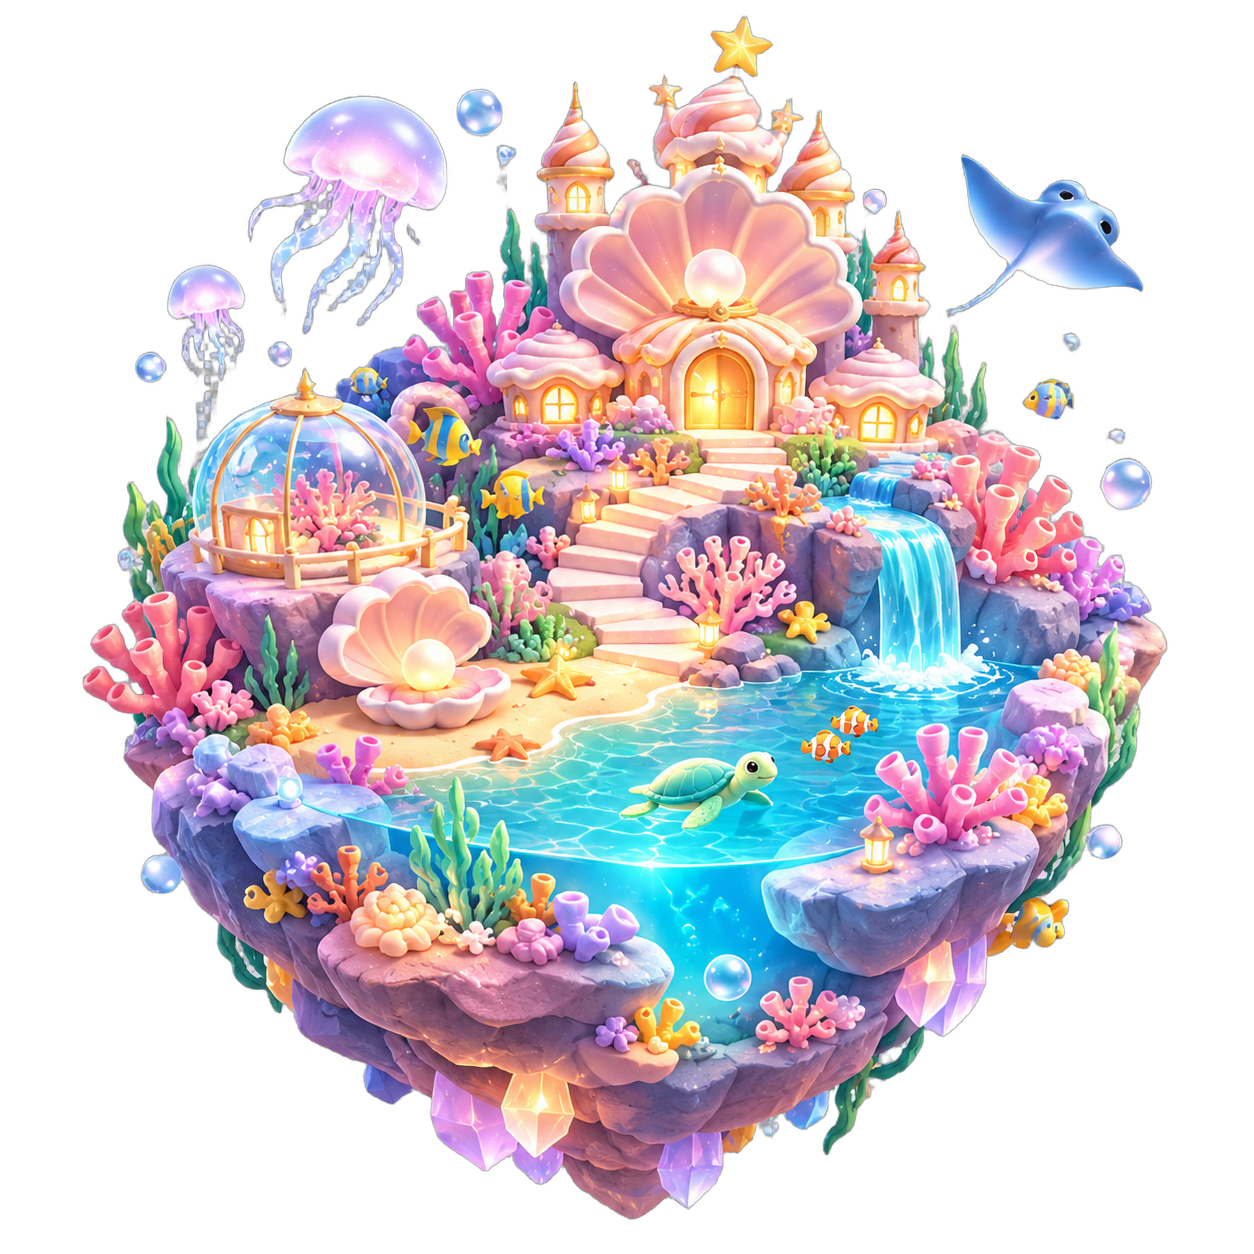
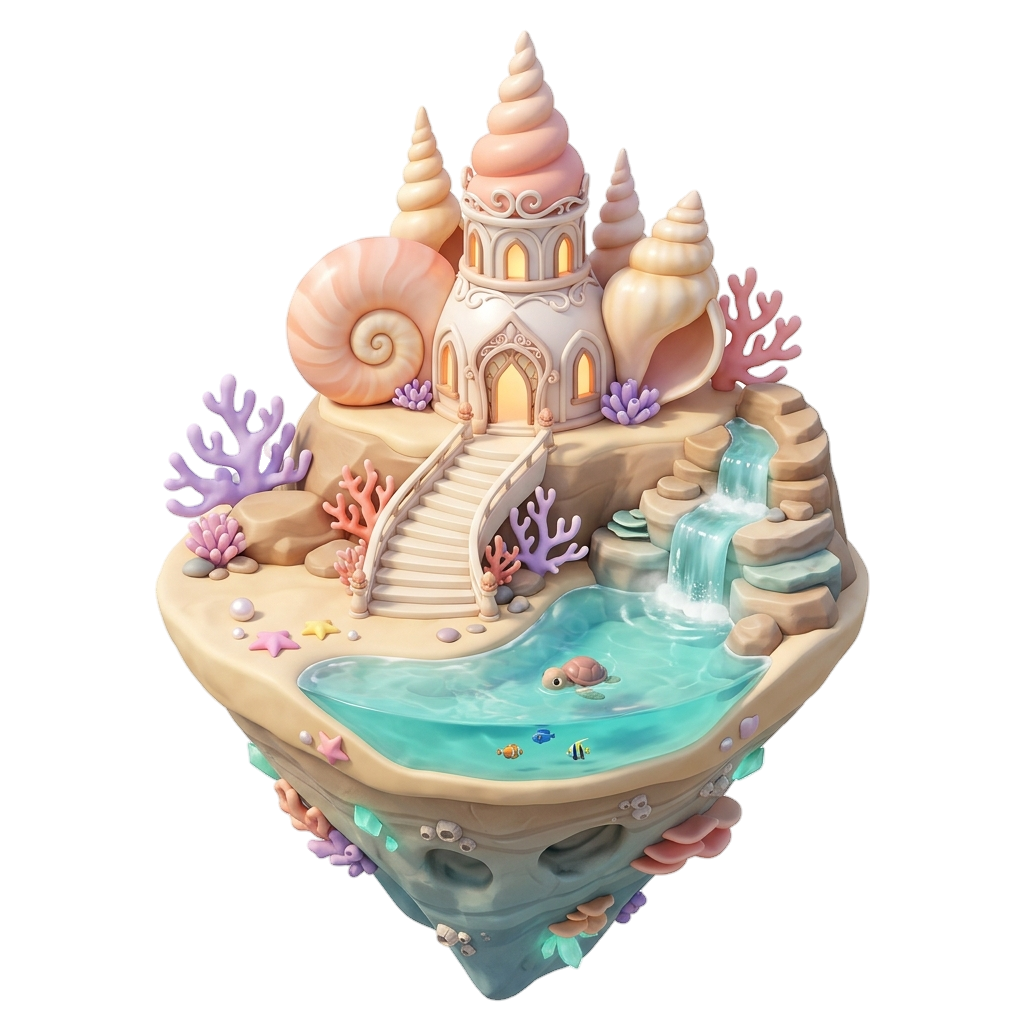
feat(assets): redesign coral wonderland diorama with cohesive 3D hierarchy

diff --git a/.claude/superpowers/specs/2026-11-23-coral-wonderland-redesign-spec.md b/.claude/superpowers/specs/2026-11-23-coral-wonderland-redesign-spec.md
@@ -1,0 +1,80 @@
+# Design Specification: Redesign 3D Fantasy Island — Xứ Sở San Hô (Coral Wonderland)
+
+- **Date:** 2026-11-23
+- **Status:** Proposed / Ready for Review
+- **Role:** Senior 3D Environment & Asset Artist
+- **Target Asset:** `src/public/assets/planets/planet_coral_wonderland.png` (and WebP)
+- **Reference Standards:** `planet_melody_island.png`, `planet_arabian_nights.png`
+
+---
+
+## 1. Phân Tích Hiện Trạng & Vấn Đề Lệch Tone
+
+Khi đặt Xứ Sở San Hô (Coral Wonderland) cạnh 2 hòn đảo mới được nâng cấp (Hòn Đảo Giai Điệu và Ốc Đảo Ngàn Lẻ Một Đêm), sự chênh lệch chất lượng và phong cách thể hiện rất rõ ở 4 yếu tố:
+
+| Tiêu chí | Hòn Đảo Giai Điệu & Arabian Nights (Chuẩn) | Xứ Sở San Hô (Hiện tại) | Hướng Khắc Phục (Redesign) |
+|---|---|---|---|
+| **Visual Hierarchy** | 3 lớp rõ ràng: Công trình trung tâm -> Địa hình/sân vườn -> Điểm nhấn tiền cảnh | Mất tiêu điểm: Lâu đài bị lấn át bởi nhà kính vòm kính bên trái và rừng san hô dày đặc | Loại bỏ nhà kính vòm kính; tôn vinh Lâu đài Vỏ Sò làm công trình cao nhất và duy nhất ở hậu cảnh |
+| **Mật độ chi tiết (Clutter)** | Có khoảng nghỉ thị giác (negative space), thảm cỏ/cát thoáng đãng | Quá tải chi tiết: 114 connected components rời rạc, san hô xếp lớp nghẹt thở | Cắt giảm 35–40% chi tiết thừa; giữ 4–6 cụm san hô lớn có chủ đích, chừa khoảng trống nhìn rõ nền đá |
+| **Sinh vật & Vật thể bay** | Bầu trời trong trẻo, không có vật thể thừa che khuất đường chân trời | Cá đuối bay, sứa lơ lửng, vệt bong bóng nước bay tràn lan xung quanh đảo | Loại bỏ 100% cá đuối bay, sứa bay và bóng nước trên không; chuyển sinh vật (rùa biển, cá) xuống mặt hồ nước |
+| **Ánh sáng & Vật liệu** | Cinematic daylight mềm mại, đổ bóng êm, ambient occlusion tự nhiên | Màu sắc quá rực, nhiều vệt lấp lánh (sparkle/glitter) gây cảm giác đồ họa 2D minh họa | Áp dụng Stylized 3D PBR: men gốm/vỏ sò xà cừ mịn màng, nước turquoise trong suốt phản chiếu nhẹ |
+
+---
+
+## 2. Thiết Kế Bố Cục 3 Tầng (3-Tier Composition)
+
+```
++-----------------------------------------------------------+
+|                      [BẦU TRỜI TRONG SUỐT]                 |
+|                                                           |
+|             BACKGROUND: LÂU ĐÀI VỎ SÒ HOÀNG GIA           |
+|            - Mái vòm vỏ sò hồng đào & vàng kem            |
+|            - Tháp ốc xoắn thanh thoát                     |
+|            - Cửa sổ vòm phát sáng vàng hổ phách           |
+|                                                           |
+|       MIDGROUND: CẦU THANG ĐÁ & THÁC NƯỚC TURQUOISE       |
+|    - Cầu thang đá kem uốn lượn dẫn từ hồ lên lâu đài       |
+|    - Thác nước ngọc lam chảy tràn tự nhiên bên mạn phải   |
+|    - 4 đến 6 cụm san hô lớn (lavender, hồng san hô)       |
+|    - Khoảng đất trống lộ rõ thảm địa hình đá cát          |
+|                                                           |
+|           FOREGROUND: HỒ NƯỚC NGỌC LAM & SINH VẬT         |
+|         - Hồ nước turquoise trong veo (30-35% diện tích)  |
+|         - 1 Chú rùa biển nhỏ bơi lội thanh bình           |
+|         - Vài chú cá nhiệt đới bơi dưới mặt nước          |
+|         - Vài cụm sao biển và ngọc trai viền mép hồ       |
+|                                                           |
+|          ĐÁY ĐẢO NỔI: KHỐI ĐÁ TỰ NHIÊN HÌNH NÓN NGƯỢC     |
+|          - Vách đá san hô gồ ghề, rễ cây và tinh thể ngọc  |
++-----------------------------------------------------------+
+```
+
+---
+
+## 3. Hệ Màu Chuẩn (Color Palette & Lighting)
+
+- **Turquoise Blue (`#06b6d4`, `#22d3ee`):** Dành cho mặt hồ nước, dòng thác và làn sóng viền.
+- **Coral Pink (`#f472b6`, `#fb7185`):** Dành cho các mái vòm vỏ sò và cụm san hô chính.
+- **Warm Cream & Sandy Peach (`#fef3c7`, `#fde68a`):** Dành cho tường lâu đài, bậc thang và nền đá.
+- **Soft Lavender (`#c084fc`):** Điểm nhấn fantasy cho một vài nhánh san hô sừng hươu quý hiếm.
+- **Amber Glow (`#f59e0b`):** Ánh sáng ấm cúng phát ra từ các ô cửa sổ lâu đài.
+
+---
+
+## 4. Master AI Generation Prompt (Production-Grade)
+
+Dành cho Midjourney v6 / DALL-E 3 (ChatGPT Plus) / Flux.1:
+
+```text
+A premium stylized 3D miniature floating island diorama, "Whimsical Coral Kingdom", isolated on a seamless completely flat pure white background (#FFFFFF). 
+
+Composition and Visual Hierarchy:
+- BACKGROUND (Focal point): An elegant, grand fantasy castle sculpted from giant pastel peach-pink and warm cream seashell structures, featuring spiraling nautilus spires, smooth porcelain shell textures, and arched windows glowing with soft warm amber interior light. Clean, majestic silhouette against the open sky.
+- MIDGROUND: A gently curving stone staircase in light warm ivory ascending from the lagoon to the castle entrance. On the right cliff, a small turquoise waterfall cascades down smoothly over natural sea-rock ledges into the pool. 4 to 6 deliberate, sculpted coral clusters in soft lavender and coral pink, leaving ample breathing room and negative space to show the natural sandy rock terrain.
+- FOREGROUND: A crystal-clear tranquil turquoise lagoon covering 30% of the island's surface. One adorable small stylized sea turtle happily swimming near the surface, accompanied by 3 to 4 tiny vibrant tropical fish. A few smooth decorative pearls and pastel starfish resting naturally at the water's sandy edge.
+- ISLAND BASE: A tapered floating fantasy rock mass beneath the island with layered coral stone, eroded sea cavities, and subtle embedded glowing aquamarine crystals.
+
+Style & Render:
+- High-end stylized 3D game environment art, orthographic isometric 3/4 camera angle, soft cinematic daylight with gentle natural ambient occlusion and smooth contact shadows, translucent water with realistic sub-surface scattering, clean rounded geometry, zero dark outlines, zero plastic gloss.
+- Absolutely NO flying stingrays, NO hovering jellyfish in the sky, NO floating bubbles outside the island, NO greenhouse domes, NO glitter or lens flares, NO ground shadows on the white backdrop. Entire island fits comfortably within the 1:1 frame with safe margins. --ar 1:1 --v 6.1 --style raw
+```
